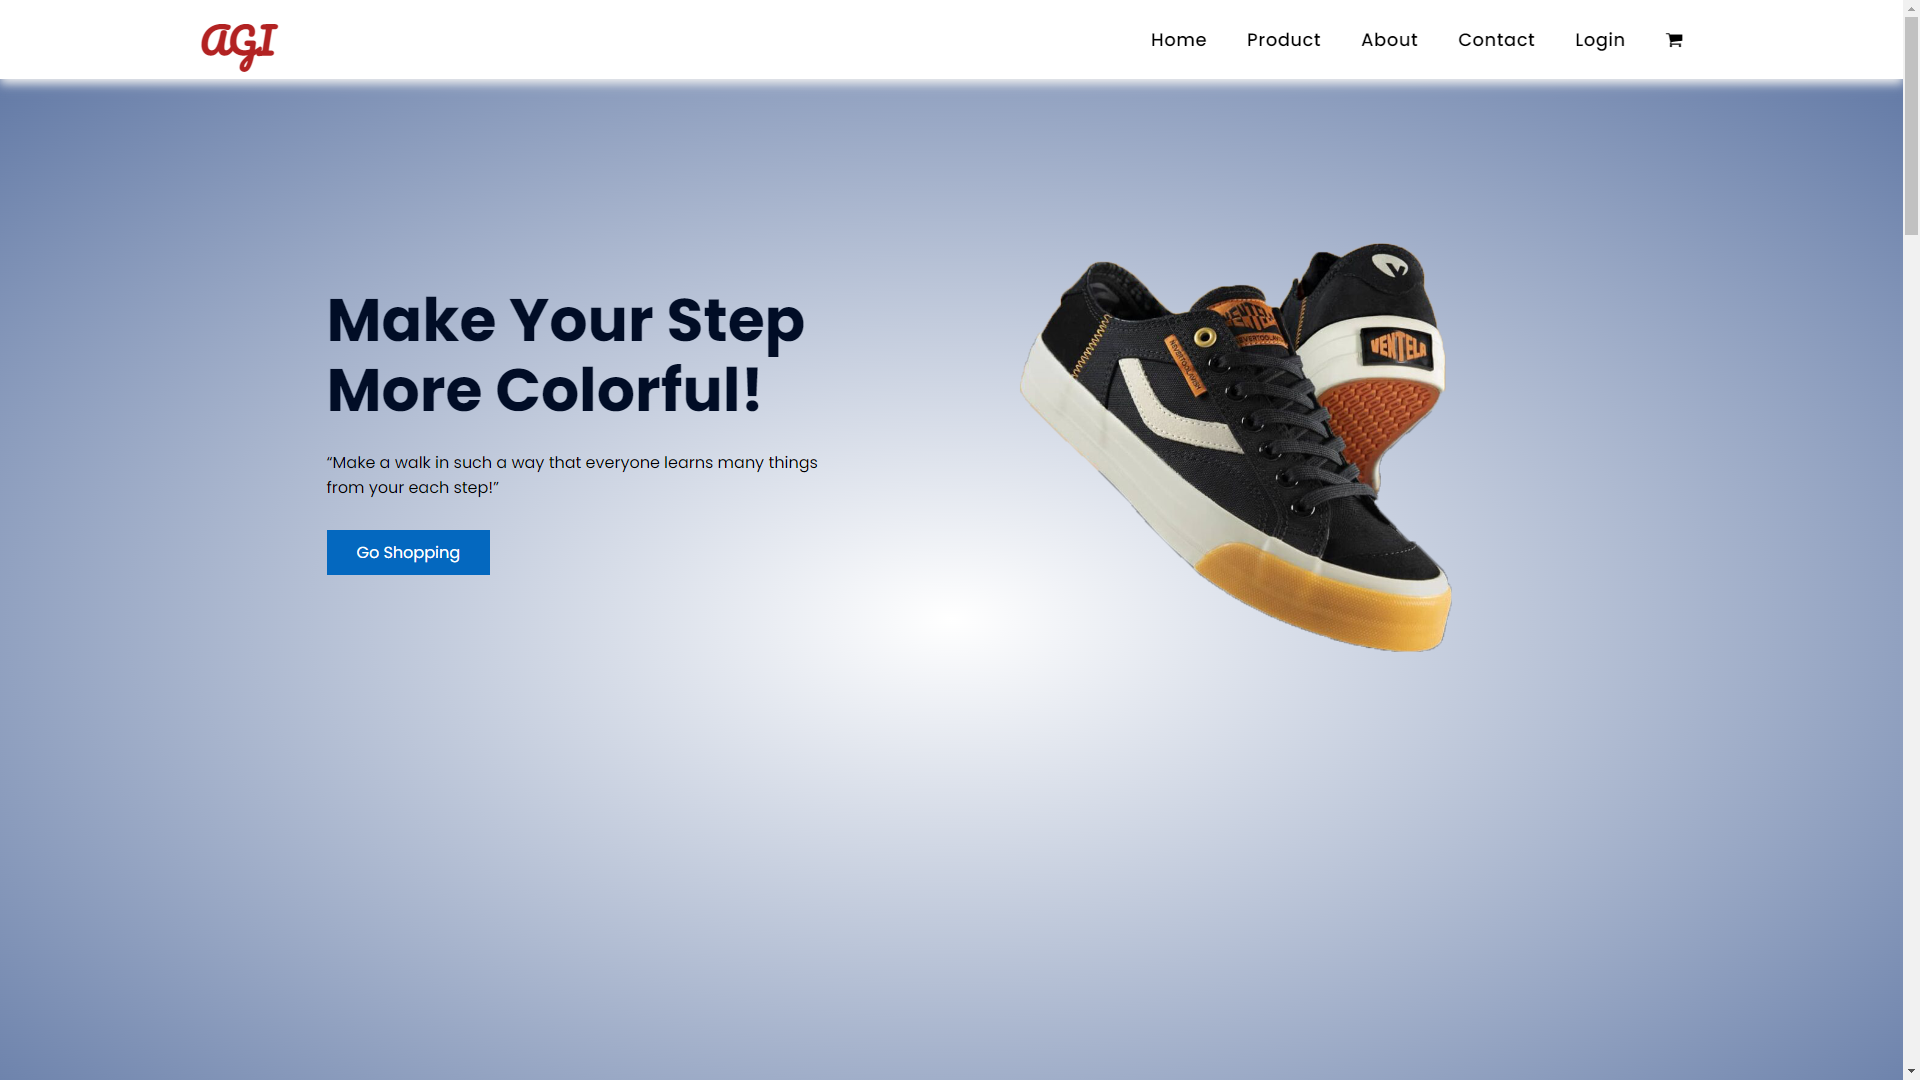
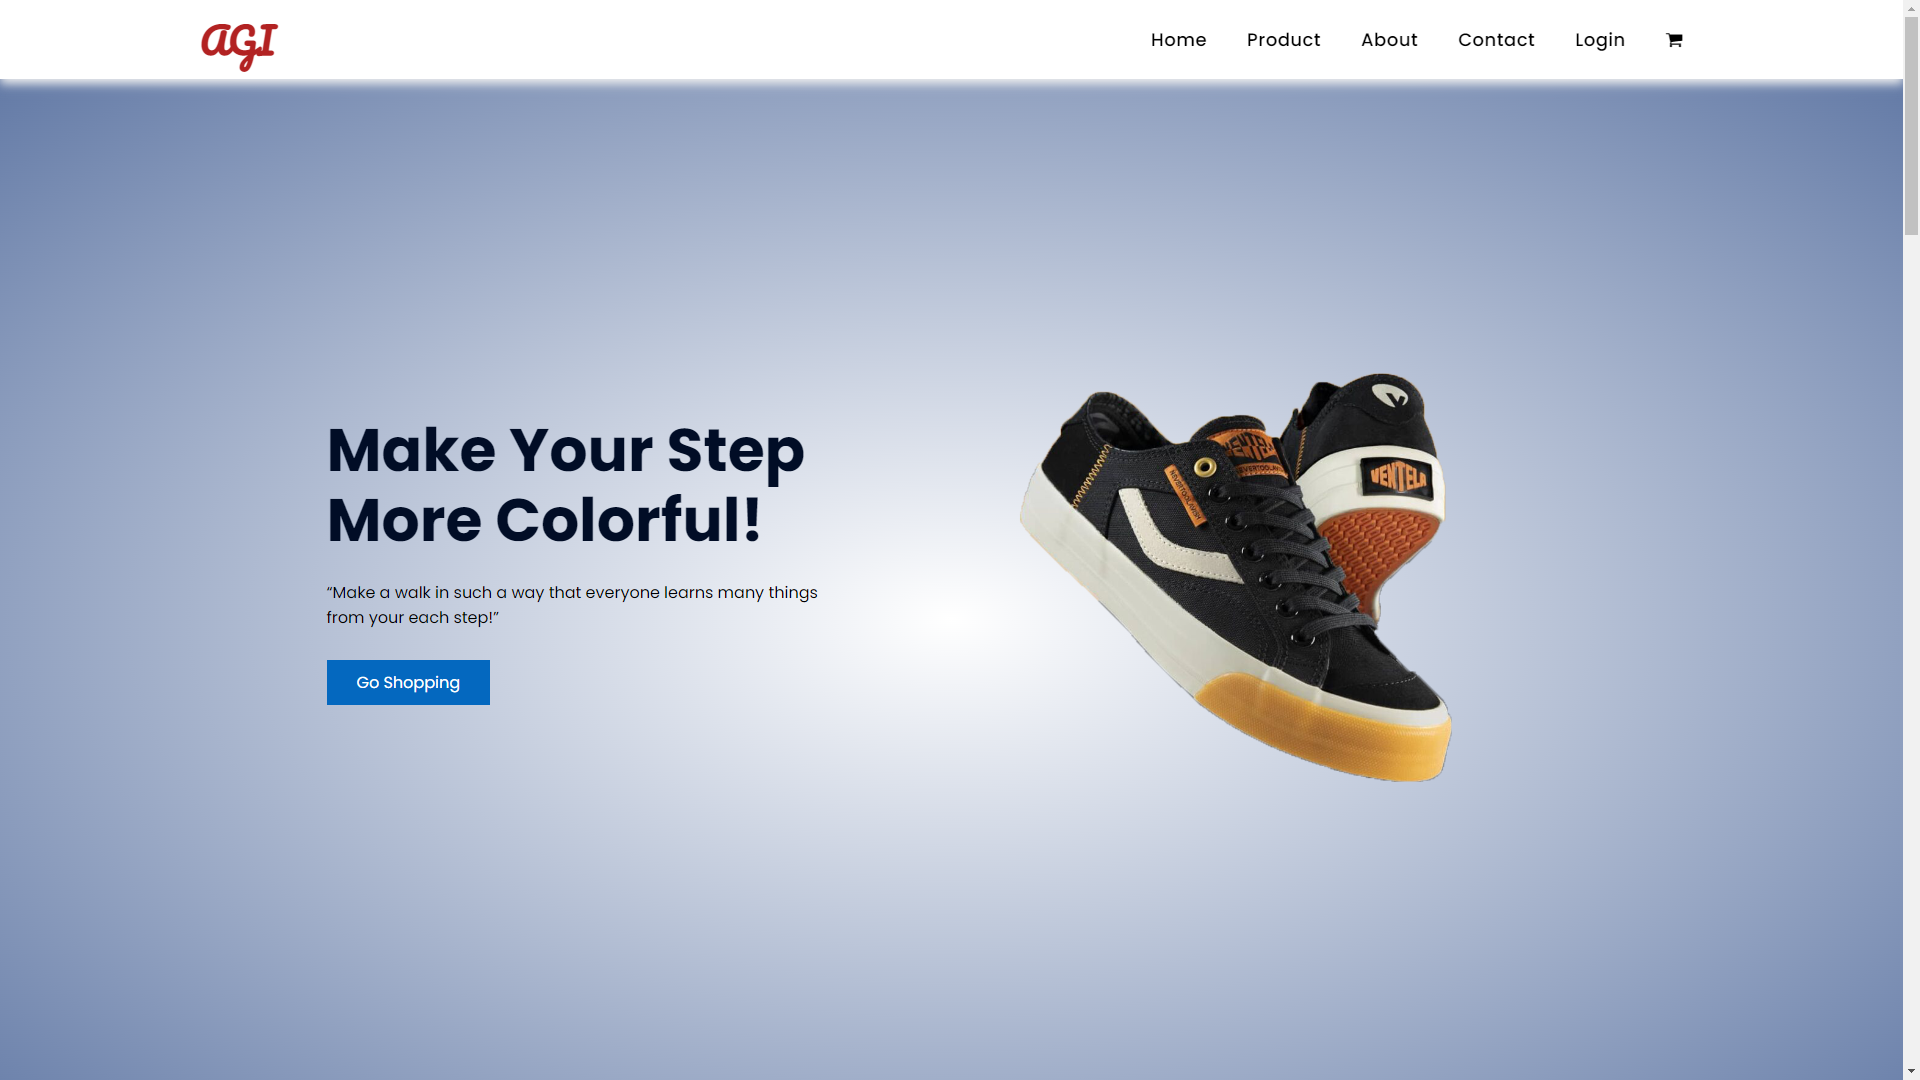
Update all

Changed region(s): [[0.5312, 0.2139, 0.7812, 0.7333], [0.1562, 0.275, 0.4375, 0.5806], [0.1562, 0.6111, 0.2812, 0.6722]]

diff --git a/index.html b/index.html
@@ -22,23 +22,18 @@
     <link rel="stylesheet" href="index.css" />
     <link
       rel="stylesheet"
-      href="https://cdnjs.cloudflare.com/ajax/libs/OwlCarousel2/2.3.4/assets/owl.carousel.min.css"
-      integrity="sha512-tS3S5qG0BlhnQROyJXvNjeEM4UpMXHrQfTGmbQ1gKmelCxlSEBUaxhRBj/EFTzpbP4RVSrpEikbmdJobCvhE3g=="
-      crossorigin="anonymous"
-      referrerpolicy="no-referrer"
+      href="owlcarousel/dist/assets/owl.carousel.min.css"
     />
     <link
       rel="stylesheet"
-      href="https://cdnjs.cloudflare.com/ajax/libs/OwlCarousel2/2.3.4/assets/owl.theme.default.min.css"
-      integrity="sha512-sMXtMNL1zRzolHYKEujM2AqCLUR9F2C4/05cdbxjjLSRvMQIciEPCQZo++nk7go3BtSuK9kfa/s+a4f4i5pLkw=="
-      crossorigin="anonymous"
-      referrerpolicy="no-referrer"
+      href="owlcarousel/dist/assets/owl.theme.default.min.css"
     />
+    <link rel="stylesheet" href="https://unpkg.com/aos@next/dist/aos.css" />
   </head>
   <body>
     <nav class="navbar navbar-expand-lg bg-light sticky-top shadow-sm">
       <div class="container">
-        <a class="navbar-brand fs-2 fw-bold text-primary" href="#">A.S</a>
+        <a class="navbar-brand fs-1 fw-bold text-primary" href="#">A.S</a>
         <button
           class="navbar-toggler shadow-sm"
           type="button"
@@ -68,7 +63,7 @@
               <a class="nav-link" href="#portofolio">Portofolio</a>
             </li>
             <li class="nav-item">
-              <a class="nav-link" href="#">Contact</a>
+              <a class="nav-link" href="#contact">Contact</a>
             </li>
           </ul>
         </div>
@@ -79,7 +74,15 @@
         <div
           class="row d-flex flex-column-reverse flex-md-row align-items-center align-content-center min-vh-100 justify-content-between"
         >
-          <div class="col-md-6 mt-5 mt-md-0">
+          <div
+            class="col-md-6 mt-5 mt-md-0"
+            data-aos="fade-right"
+            data-aos-anchor-placement="top-bottom"
+            data-aos-offset="300"
+            data-aos-duration="800"
+            data-aos-easing="ease-in-sine"
+            data-aos-once="true"
+          >
             <p class="fs-3 text-muted mb-3">Hello,</p>
             <h1 class="fw-bold text-primary display-5 mb-3">
               I'am Arief Setiawan
@@ -93,7 +96,15 @@
               >About Me&ensp;<i class="bi bi-arrow-right-circle"></i
             ></a>
           </div>
-          <div class="col-md-6 text-center mt-5 mt-md-0">
+          <div
+            class="col-md-5 mb-4 mb-md-0"
+            data-aos="fade-zoom-in"
+            data-aos-anchor-placement="top-bottom"
+            data-aos-easing="ease-in-back"
+            data-aos-once="true"
+            data-aos-duration="500"
+            data-aos-offset="0"
+          >
             <img
               src="as.jpg"
               alt=""
@@ -104,20 +115,47 @@
       </div>
     </section>
     <section class="py-5" id="about">
-      <div class="container-lg py-4">
-        <div class="row d-flex justify-content-between">
-          <div class="col-12 text-center mb-5">
+      <div class="container-lg">
+        <div
+          class="row d-flex justify-content-between min-vh-100 align-content-center"
+        >
+          <div
+            class="col-12 text-center mb-5"
+            data-aos="fade-right"
+            data-aos-anchor-placement="bottom-bottom"
+            data-aos-easing="ease-in-sine"
+            data-aos-once="true"
+            data-aos-offset="300"
+            data-aos-duration="800"
+          >
             <h1 class="fw-bold">About Me</h1>
             <p class="text-secondary">What you need to know</p>
           </div>
-          <div class="col-md-5 mb-4 mb-md-0">
+          <div
+            class="col-md-5 mb-4 mb-md-0"
+            data-aos="fade-zoom-in"
+            data-aos-anchor-placement="center-bottom"
+            data-aos-easing="ease-in-back"
+            data-aos-once="true"
+            data-aos-offset="0"
+            data-aos-duration="500"
+          >
             <img
               class="img-thumbnail mw-100 rounded-5 shadow-lg"
               src="about.jpg"
               alt=""
             />
           </div>
-          <div class="col-md-6">
+          <div
+            class="col-md-6"
+            class="col-md-6 mt-5 mt-md-0"
+            data-aos="fade-right"
+            data-aos-anchor-placement="top-bottom"
+            data-aos-offset="300"
+            data-aos-duration="800"
+            data-aos-easing="ease-in-sine"
+            data-aos-once="true"
+          >
             <p class="fs-4 fw-bold mb-4">
               I am a fresh graduate from the Faculty of Engineering majoring in
               Information Technology at Pamulang University.
@@ -141,14 +179,32 @@
         </div>
       </div>
     </section>
-    <section class="py-5" id="skills">
-      <div class="container-lg py-4">
-        <div class="row d-flex justify-content-evenly">
-          <div class="col-12 text-center mb-5">
+    <section class="" id="skills">
+      <div class="container-lg">
+        <div
+          class="row d-flex justify-content-evenly min-vh-100 align-content-center"
+        >
+          <div
+            class="col-12 text-center mb-5"
+            data-aos="fade-right"
+            data-aos-anchor-placement="bottom-bottom"
+            data-aos-easing="ease-in-sine"
+            data-aos-once="true"
+            data-aos-offset="300"
+            data-aos-duration="800"
+          >
             <h1 class="fw-bold">Skills</h1>
             <p class="text-secondary">The skills i have</p>
           </div>
-          <div class="col-md-6">
+          <div
+            class="col-md-6"
+            data-aos="fade-up"
+            data-aos-anchor-placement="center-bottom"
+            data-aos-easing="ease-in-sine"
+            data-aos-once="true"
+            data-aos-offset="300"
+            data-aos-duration="800"
+          >
             <div
               class="accordion accordion-flush mb-4"
               id="accordionFlushExample"
@@ -301,7 +357,15 @@
               </div>
             </div>
           </div>
-          <div class="col-md-6">
+          <div
+            class="col-md-6"
+            data-aos="fade-up"
+            data-aos-anchor-placement="center-bottom"
+            data-aos-easing="ease-in-sine"
+            data-aos-once="true"
+            data-aos-offset="300"
+            data-aos-duration="800"
+          >
             <div
               class="accordion accordion-flush mb-4"
               id="accordionFlushExample3"
@@ -455,16 +519,32 @@
         </div>
       </div>
     </section>
-    <section class="py-5" id="services">
-      <div class="container-lg py-4">
-        <div class="row d-flex justify-content-around">
-          <div class="col-12 text-center mb-5">
+    <section class="" id="services">
+      <div class="container-lg">
+        <div
+          class="row d-flex justify-content-around min-vh-100 align-content-center"
+        >
+          <div
+            class="col-12 text-center mb-5"
+            data-aos="fade-right"
+            data-aos-anchor-placement="bottom-bottom"
+            data-aos-easing="ease-in-sine"
+            data-aos-once="true"
+            data-aos-offset="300"
+            data-aos-duration="800"
+          >
             <h1 class="fw-bold">Services</h1>
             <p class="text-secondary">What can i do</p>
           </div>
           <div
             class="card shadow rounded-3 mb-3 mb-md-0 p-4"
             style="width: 25rem; height: 18rem"
+            data-aos="fade-zoom-in"
+            data-aos-anchor-placement="bottom-bottom"
+            data-aos-easing="ease-in-back"
+            data-aos-once="true"
+            data-aos-offset="0"
+            data-aos-duration="500"
           >
             <div class="card-body text-center">
               <h5 class="card-title display-5 text-primary mb-2">
@@ -481,6 +561,12 @@
           <div
             class="card shadow rounded-3 mb-3 mb-md-0 p-4"
             style="width: 25rem; height: 18rem"
+            data-aos="fade-zoom-in"
+            data-aos-anchor-placement="bottom-bottom"
+            data-aos-easing="ease-in-back"
+            data-aos-once="true"
+            data-aos-offset="0"
+            data-aos-duration="1000"
           >
             <div class="card-body text-center">
               <h5 class="card-title display-5 text-primary mb-2">
@@ -496,6 +582,12 @@
           <div
             class="card shadow rounded-3 mb-3 mb-md-0 p-4"
             style="width: 25rem; height: 18rem"
+            data-aos="fade-zoom-in"
+            data-aos-anchor-placement="bottom-bottom"
+            data-aos-easing="ease-in-back"
+            data-aos-once="true"
+            data-aos-offset="0"
+            data-aos-duration="1500"
           >
             <div class="card-body text-center">
               <h5 class="card-title display-5 text-primary mb-2">
@@ -510,10 +602,20 @@
         </div>
       </div>
     </section>
-    <section class="py-5" id="portofolio">
-      <div class="container-lg py-4">
-        <div class="row d-flex justify-content-around">
-          <div class="col-12 text-center mb-5">
+    <section class="" id="portofolio">
+      <div class="container-lg">
+        <div
+          class="row d-flex justify-content-around min-vh-100 align-content-center"
+        >
+          <div
+            class="col-12 text-center mb-5"
+            data-aos="fade-right"
+            data-aos-anchor-placement="bottom-bottom"
+            data-aos-easing="ease-in-sine"
+            data-aos-once="true"
+            data-aos-offset="300"
+            data-aos-duration="800"
+          >
             <h1 class="fw-bold">Portofolio</h1>
             <p class="text-secondary">My recent works</p>
           </div>
@@ -544,10 +646,14 @@
                   class="row d-flex justify-content-around align-content-center align-items-center"
                 >
                   <div class="col-md-6 mb-5 mb-md-0">
-                    <img src="agi.png" alt="" class="w-100 shadow rounded-4" />
+                    <img
+                      src="bojongsari.png"
+                      alt=""
+                      class="w-100 shadow rounded-4"
+                    />
                   </div>
                   <div class="col-md-5">
-                    <h3 class="fw-bold">E-Commerce Landing Page</h3>
+                    <h3 class="fw-bold">Bojongsari Village Profile</h3>
                     <p class="mt-4 text-secondary">
                       Lorem ipsum dolor sit amet consectetur adipisicing elit.
                       Officiis reiciendis, incidunt id porro amet cum harum
@@ -564,7 +670,11 @@
                   class="row d-flex justify-content-around align-content-center align-items-center"
                 >
                   <div class="col-md-6 mb-5 mb-md-0">
-                    <img src="agi.png" alt="" class="w-100 shadow rounded-4" />
+                    <img
+                      src="flexypro.png"
+                      alt=""
+                      class="w-100 shadow rounded-4"
+                    />
                   </div>
                   <div class="col-md-5">
                     <h3 class="fw-bold">Flexypro.id</h3>
@@ -584,10 +694,20 @@
         </div>
       </div>
     </section>
-    <section class="py-5" id="portofolio">
-      <div class="container-lg py-4">
-        <div class="row d-flex justify-content-between">
-          <div class="col-12 text-center mb-5">
+    <section class="" id="contact">
+      <div class="container-lg">
+        <div
+          class="row d-flex justify-content-between align-content-center min-vh-100"
+        >
+          <div
+            class="col-12 text-center mb-5"
+            data-aos="fade-right"
+            data-aos-anchor-placement="bottom-bottom"
+            data-aos-easing="ease-in-sine"
+            data-aos-once="true"
+            data-aos-offset="300"
+            data-aos-duration="800"
+          >
             <h1 class="fw-bold">Contact Me</h1>
             <p class="text-secondary">Get in touch with me</p>
           </div>
@@ -670,9 +790,11 @@
         </div>
       </div>
     </section>
-    <footer class="py-5 bg-dark" id="portofolio">
+    <footer class="bg-dark" id="portofolio">
       <div class="container-lg">
-        <div class="row justify-content-center">
+        <div
+          class="row justify-content-center align-content-center align-items-center py-5"
+        >
           <div class="col-9 text-center text-light">
             Copyright <i class="bi bi-c-circle"></i> Arief Setiawan
           </div>
@@ -680,29 +802,33 @@
       </div>
     </footer>
     <!-- SCRIPT JS -->
-    <script src="https://code.jquery.com/jquery-3.3.1.min.js"></script>
+    <script
+      src="https://cdnjs.cloudflare.com/ajax/libs/jquery/3.6.1/jquery.min.js"
+      integrity="sha512-aVKKRRi/Q/YV+4mjoKBsE4x3H+BkegoM/em46NNlCqNTmUYADjBbeNefNxYV7giUp0VxICtqdrbqU7iVaeZNXA=="
+      crossorigin="anonymous"
+      referrerpolicy="no-referrer"
+    ></script>
     <script
       src="https://cdn.jsdelivr.net/npm/bootstrap@5.2.1/dist/js/bootstrap.bundle.min.js"
       integrity="sha384-u1OknCvxWvY5kfmNBILK2hRnQC3Pr17a+RTT6rIHI7NnikvbZlHgTPOOmMi466C8"
       crossorigin="anonymous"
     ></script>
-    <script
-      src="https://cdnjs.cloudflare.com/ajax/libs/OwlCarousel2/2.3.4/owl.carousel.min.js"
-      integrity="sha512-bPs7Ae6pVvhOSiIcyUClR7/q2OAsRiovw4vAkX+zJbw3ShAeeqezq50RIIcIURq7Oa20rW2n2q+fyXBNcU9lrw=="
-      crossorigin="anonymous"
-      referrerpolicy="no-referrer"
-    ></script>
+    <script src="owlcarousel/dist/owl.carousel.min.js"></script>
+    <script src="https://unpkg.com/aos@next/dist/aos.js"></script>
 
     <script>
-      $('.owl-carousel').owlCarousel({
-        loop: true,
-        margin: 10,
-        nav: true,
-        responsive: {
-          0: {
-            items: 1,
+      AOS.init();
+      $(document).ready(function () {
+        $('.owl-carousel').owlCarousel({
+          loop: true,
+          margin: 10,
+          nav: true,
+          responsive: {
+            0: {
+              items: 1,
+            },
           },
-        },
+        });
       });
     </script>
   </body>
